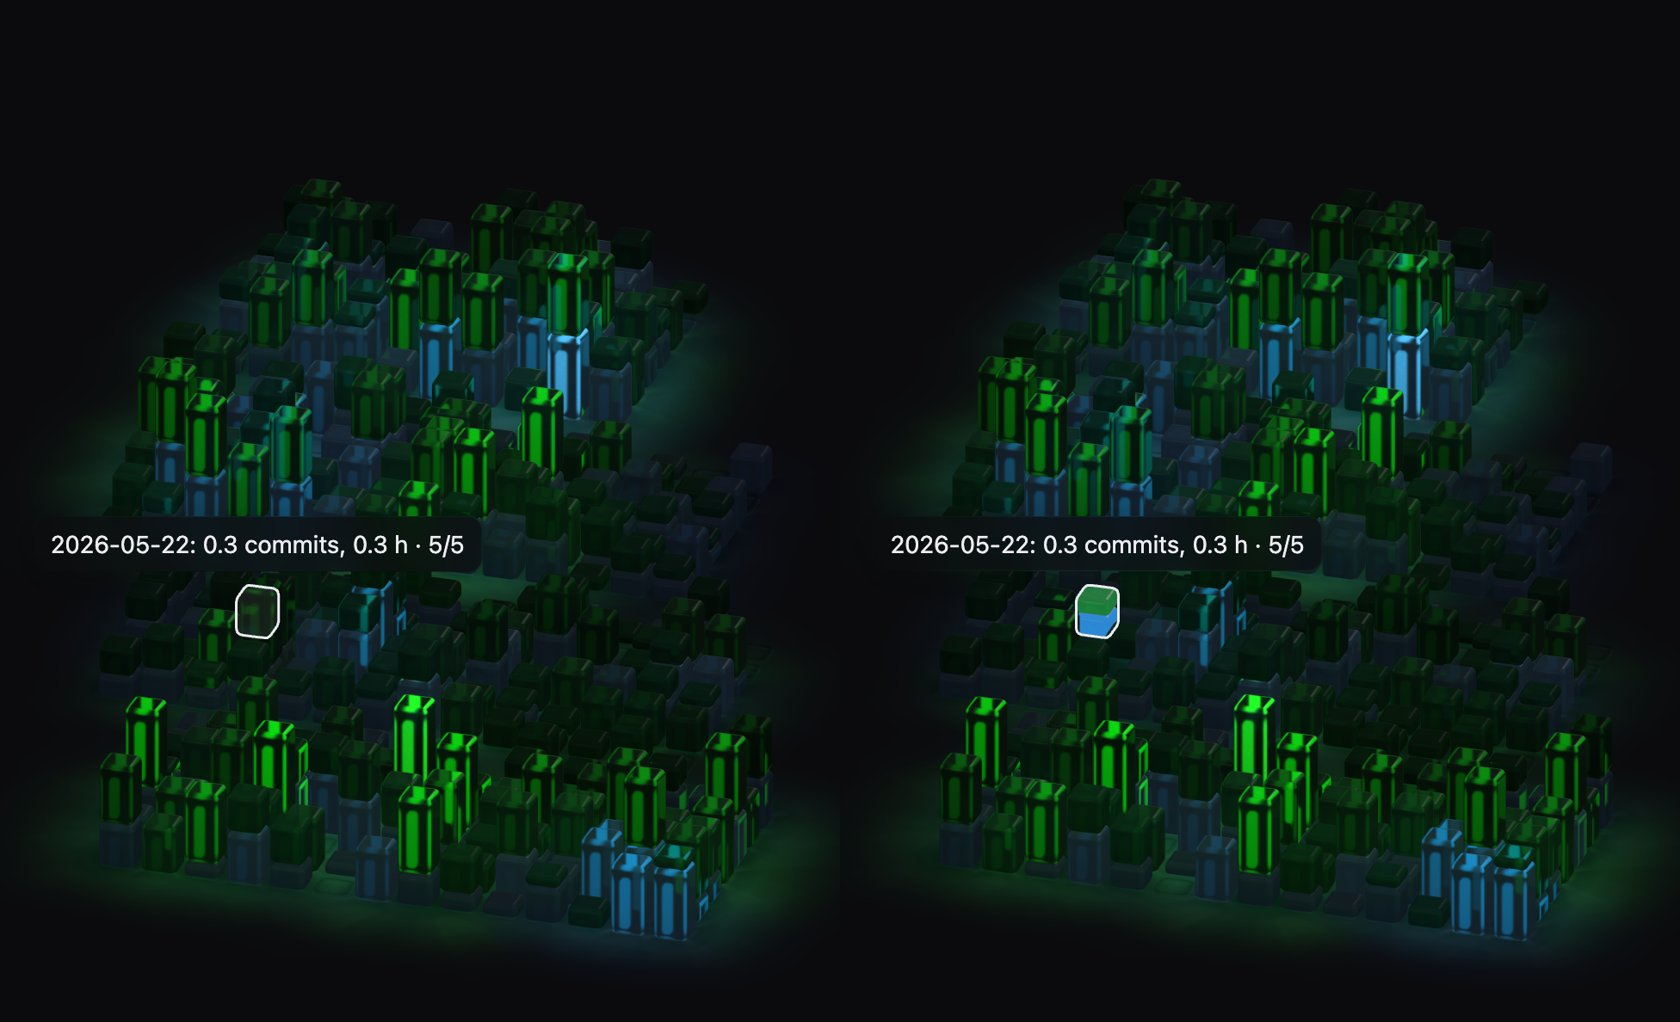
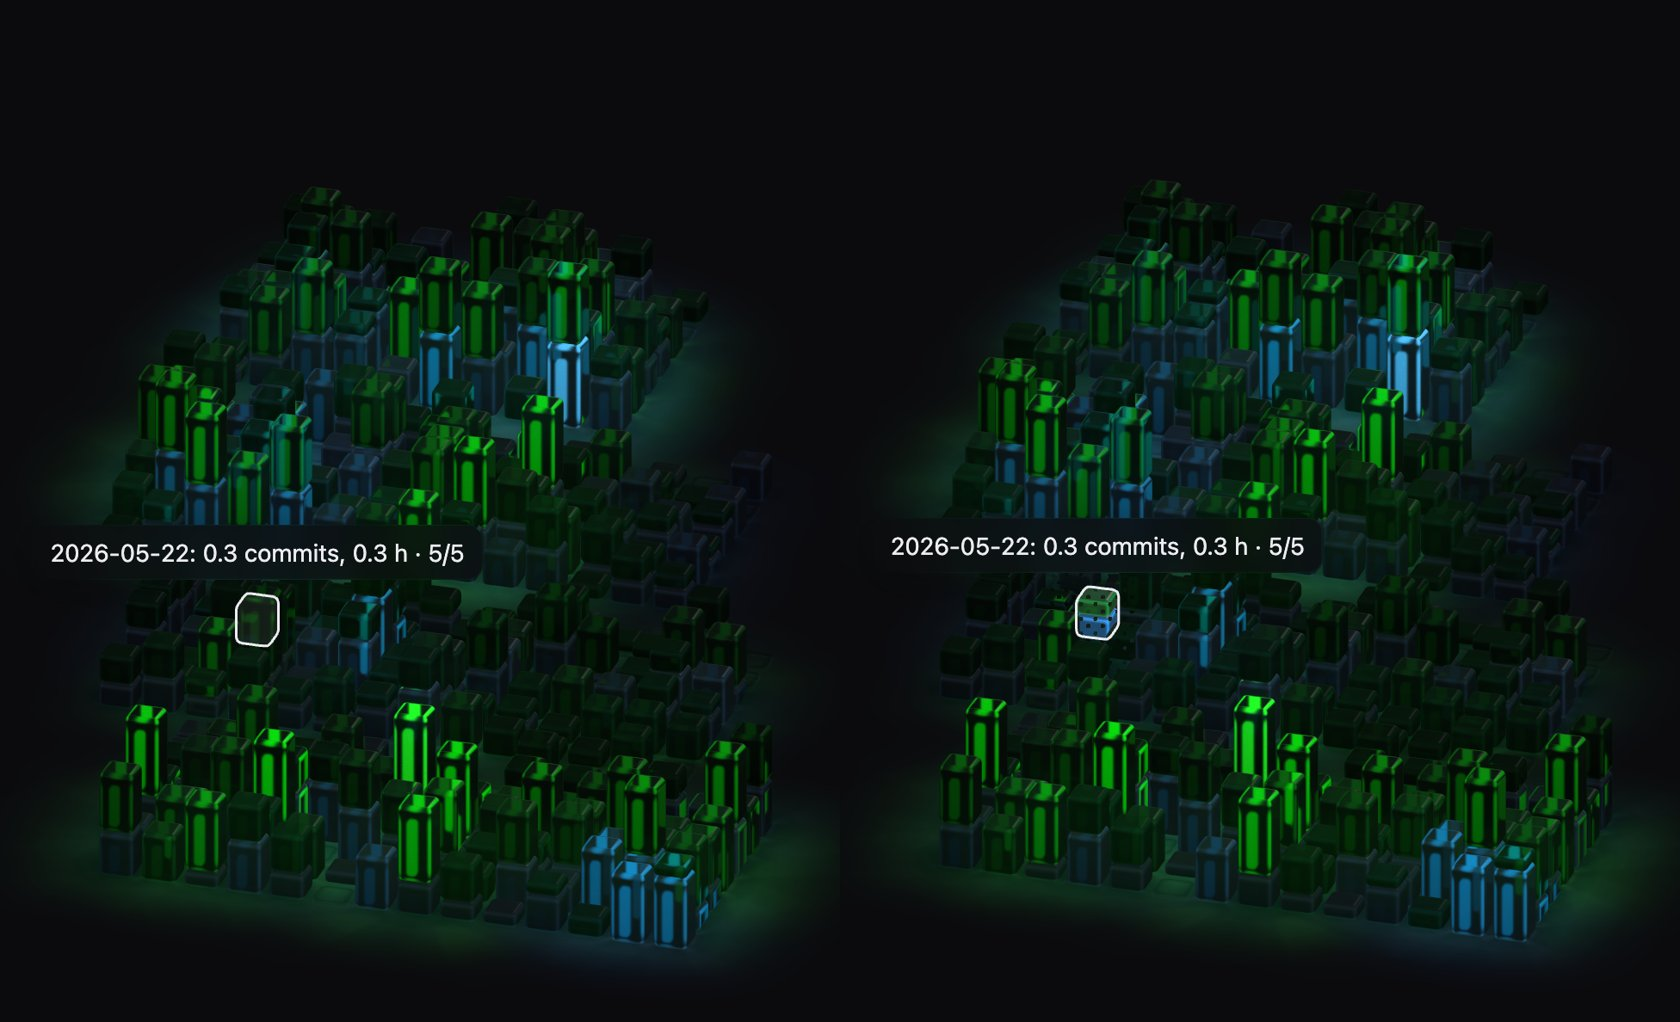
Cutaway: halftone screen instead of plain transparency; dark theme: quiet days' glass is darker and catches the neighbours' light on its edges

diff --git a/src/graph.ts b/src/graph.ts
@@ -239,6 +239,7 @@ export function mountScene(el: HTMLElement, opts: GraphOptions & { data: GraphDa
         uCutFade: { value: cutTex },
         uCutStrength: { value: cutCfg?.strength ?? 0 },
         uCutSeed: { value: 0 },
+        uCutDot: { value: 0 },
       };
       const cutPatch = (mat: import("three").Material) => {
         if (!cutCfg) return;
@@ -283,6 +284,18 @@ export function mountScene(el: HTMLElement, opts: GraphOptions & { data: GraphDa
       const LAYER_FILTER_PURITY = 0.72;
       /** (dark) how much of the light the neighbours give out the glass of a block glows with: inside a group of lamps no glass is dark, and an isolated block's is. */
       const NEIGHBOUR_GLOW = 0.22;
+      /** (dark) a dim block's glass: what is left of its own glow on its flat faces and what its rounded edges add to it (so it is dark, with its edges catching the light), and the same for the light of the blocks next to it. */
+      /** How quiet a day is (1: the quietest, 0: not at all) from its own level `t`: a smoothstep from 0.2 to 0.8. */
+      const dimStep = (t: number) => {
+        const x = Math.min(1, Math.max(0, (t - 0.2) / 0.6));
+        return x * x * (3 - 2 * x);
+      };
+      const DIM_FLAT = 0.2;
+      const DIM_EDGE = 1.6;
+      const NB_FLAT = 0.05;
+      const NB_EDGE = 3.2;
+      /** (dark) how much less of what is behind it a quiet day's glass shows (0 is the same as a lit one's). */
+      const DIM_SEE = 0.6;
       /** How much light behind a block it takes to light its glass most of the way (the share is `1 - e^-(light behind / this)`). */
       const BEHIND_SCALE = 1.6;
       /** How far the neighbours' light is tinted by the block's own colour, 0 to 1. */
@@ -976,6 +989,8 @@ void main() {
           shell.translate(x, y0 + h / 2, z);
           // dark: the glass is nearly clear (the light of its core shows through it); light: tinted by the level
           paint(shell, (dark ? new THREE.Color(0xffffff) : hue.clone().lerp(new THREE.Color(0xffffff), LIGHT_SHELL_WHITE).multiply(behindTint.get(sp) ?? new THREE.Color(1, 1, 1))).add(inc.clone().multiplyScalar(dark && sp.cust ? 0.35 : 0.08)), 0, dark);
+          // (how quiet the day is, by its OWN level, not the one the light of its neighbours lifts it to: what the glass's glow is confined to the edges for)
+          shell.setAttribute("aDim", new THREE.BufferAttribute(new Float32Array(shell.getAttribute("position").count).fill(1 - dimStep(t)), 1));
           shell.setAttribute("aCell", new THREE.BufferAttribute(new Float32Array(shell.getAttribute("position").count).fill(sp.cell), 1));
           shell.setAttribute("aBlock", new THREE.BufferAttribute(new Float32Array(shell.getAttribute("position").count).fill(blockIndex), 1));
           // (the light of the neighbours, for the glass to glow with: see `NEIGHBOUR_GLOW`; only where there are lamps BEHIND the glass as the camera sees it, and none against a dark background, or the glass would look opaque and washed out)
@@ -1130,13 +1145,13 @@ void main() {
               shader.uniforms.uFloorEm = { value: OFF_EMISSIVE / Math.max(mat.emissiveIntensity, 1e-4) };
               shader.uniforms.uFloorEnv = { value: mat.envMapIntensity > 0 ? OFF_ENV / mat.envMapIntensity : 0 };
               shader.vertexShader = shader.vertexShader
-                .replace("#include <common>", "#include <common>\nattribute float aBlock;\nattribute vec3 aInc;\nattribute vec3 aTint;\nvarying vec3 vInc;\nvarying vec3 vTint;\nuniform highp sampler2D uLevels;\nuniform float uFloorEm;\nuniform float uFloorEnv;\nvarying float vLevelEm;\nvarying float vLevelEnv;\nvarying float vOn;")
-                .replace("#include <begin_vertex>", "#include <begin_vertex>\n  vec2 lv = texelFetch(uLevels, ivec2(int(aBlock + 0.5), 0), 0).rg;\n  float own = max(lv.r, 0.3 * lv.g);\n  vOn = clamp(own, 0.0, 1.0);\n  vLevelEm = max(own, uFloorEm);\n  vLevelEnv = max(own, uFloorEnv);\n  vInc = aInc * lv.g * lv.g * lv.g;\n  vTint = aTint;");
+                .replace("#include <common>", "#include <common>\nattribute float aBlock;\nattribute vec3 aInc;\nattribute vec3 aTint;\nattribute float aDim;\nvarying float vDim;\nvarying vec3 vInc;\nvarying vec3 vTint;\nuniform highp sampler2D uLevels;\nuniform float uFloorEm;\nuniform float uFloorEnv;\nvarying float vLevelEm;\nvarying float vLevelEnv;\nvarying float vOn;\nvarying vec3 vObjN;")
+                .replace("#include <begin_vertex>", "#include <begin_vertex>\n  vObjN = normal;\n  vDim = aDim;\n  vec2 lv = texelFetch(uLevels, ivec2(int(aBlock + 0.5), 0), 0).rg;\n  float own = max(lv.r, 0.3 * lv.g);\n  vOn = clamp(own, 0.0, 1.0);\n  vLevelEm = max(own, uFloorEm);\n  vLevelEnv = max(own, uFloorEnv);\n  vInc = aInc * lv.g * lv.g * lv.g;\n  vTint = aTint;");
               shader.fragmentShader = shader.fragmentShader
-                .replace("#include <common>", "#include <common>\nvarying float vLevelEm;\nvarying float vLevelEnv;\nvarying float vOn;\nvarying vec3 vInc;\nvarying vec3 vTint;")
-                .replace("#include <emissivemap_fragment>", "#include <emissivemap_fragment>\n  // (right off, the glass glows the same cool grey whatever its source; as soon as there is a light in it, its own colour, darker the dimmer the light: a dimmed block is a tinted, darker one, not a grey one)\n  float offGrey = 1.0 - smoothstep(0.05, 0.6, vOn);\n  totalEmissiveRadiance = mix(totalEmissiveRadiance, vec3(dot(totalEmissiveRadiance, vec3(0.333))) * vec3(0.85, 0.95, 1.15), offGrey) * mix(pow(vLevelEm, 2.0), vLevelEm, offGrey);\n  vec3 nb = min(vInc * " + NEIGHBOUR_GLOW.toFixed(3) + ", vec3(0.1));\n  nb = max(vec3(0.0), mix(vec3(dot(nb, vec3(0.299, 0.587, 0.114))), nb, " + GLOW_SATURATION.toFixed(2) + "));\n  nb *= mix(vec3(1.0), vTint, smoothstep(0.05, 0.6, vOn) * mix(" + GLOW_TINT_FAINT.toFixed(3) + ", 1.0, smoothstep(0.02, 0.1, max(nb.r, max(nb.g, nb.b)))));\n  totalEmissiveRadiance += nb;")
+                .replace("#include <common>", "#include <common>\nvarying float vLevelEm;\nvarying float vLevelEnv;\nvarying float vOn;\nvarying float vDim;\nvarying vec3 vObjN;\nvarying vec3 vInc;\nvarying vec3 vTint;")
+                .replace("#include <emissivemap_fragment>", "#include <emissivemap_fragment>\n  // (right off, the glass glows the same cool grey whatever its source; as soon as there is a light in it, its own colour, darker the dimmer the light: a dimmed block is a tinted, darker one, not a grey one)\n  float offGrey = 1.0 - smoothstep(0.05, 0.6, vOn);\n  totalEmissiveRadiance = mix(totalEmissiveRadiance, vec3(dot(totalEmissiveRadiance, vec3(0.333))) * vec3(0.85, 0.95, 1.15), offGrey) * mix(pow(vLevelEm, 2.0), vLevelEm, offGrey);\n  // (a dim block is not a lit one: its glass does not glow all over, evenly, from the light of the blocks next to it, which would make it a milky, jelly-like cube; the light shows where light shows on glass, as streaks on its rounded edges, and its flat faces stay dark)\n  float edgeK = smoothstep(0.03, 0.4, 1.0 - max(abs(vObjN.x), max(abs(vObjN.y), abs(vObjN.z))));\n  float dimK = max(vDim, 1.0 - smoothstep(0.5, 0.95, vOn));\n  totalEmissiveRadiance *= mix(1.0, " + DIM_FLAT.toFixed(2) + " + " + DIM_EDGE.toFixed(2) + " * edgeK, dimK);\n  vec3 nb = min(vInc * " + NEIGHBOUR_GLOW.toFixed(3) + ", vec3(0.1));\n  nb = max(vec3(0.0), mix(vec3(dot(nb, vec3(0.299, 0.587, 0.114))), nb, " + GLOW_SATURATION.toFixed(2) + "));\n  nb *= mix(vec3(1.0), vTint, smoothstep(0.05, 0.6, vOn) * mix(" + GLOW_TINT_FAINT.toFixed(3) + ", 1.0, smoothstep(0.02, 0.1, max(nb.r, max(nb.g, nb.b)))));\n  nb *= mix(1.0, " + NB_FLAT.toFixed(2) + " + " + NB_EDGE.toFixed(2) + " * edgeK, dimK);\n  totalEmissiveRadiance += nb;")
                 // (the glass's tint is the light of its rod made visible: with the rod off the glass is clear)
-                .replace("#include <lights_physical_fragment>", "#include <lights_physical_fragment>\n#ifdef USE_TRANSMISSION\n  material.attenuationColor = mix(vec3(1.0), material.attenuationColor, smoothstep(0.12, 0.9, vOn));\n#endif")
+                .replace("#include <lights_physical_fragment>", "#include <lights_physical_fragment>\n#ifdef USE_TRANSMISSION\n  material.attenuationColor = mix(vec3(1.0), material.attenuationColor, smoothstep(0.12, 0.9, vOn));\n  // (a quiet day's glass does not show the lit ground and the lamps behind it as clearly as a lit one: it is a darker body, not a window onto the glow round it)\n  material.transmission *= 1.0 - " + DIM_SEE.toFixed(2) + " * vDim;\n#endif")
                 .replace("#include <lights_fragment_maps>", "#include <lights_fragment_maps>\n#if defined( RE_IndirectSpecular )\n  radiance *= vLevelEnv;\n#ifdef USE_CLEARCOAT\n  clearcoatRadiance *= vLevelEnv;\n#endif\n#endif\n#if defined( RE_IndirectDiffuse )\n  iblIrradiance *= vLevelEnv;\n#endif");
             };
             mat.customProgramCacheKey = () => "glass-levels";
@@ -1691,6 +1706,8 @@ void main(){
         const dt = neonAllowed() ? Math.min(100, now - cutLast) : 1e6;
         cutLast = now;
         const moving = stepFades(cutFade, cutWanted, dt);
+        // (the halftone's cell, in the pixels of the picture, which may be drawn at another ratio than the page's)
+        cutU.uCutDot.value = (cutCfg?.dot ?? 0) * (w / Math.max(1, el.clientWidth));
         cutTex.needsUpdate = true;
         // (each step is drawn from a few samples at once, from nothing: the thresholds of the fade are spread over the samples, so a lone one is a dither)
         const k = lite ? 2 : 4;

diff --git a/src/cutaway.ts b/src/cutaway.ts
@@ -4,11 +4,13 @@
  */
 
 export interface CutawayOptions {
-  /** How much of the days in the way is taken away, 0 to 1 (default 1: they are gone; less leaves a ghost of them, so that the picture keeps its depth). */
+  /** How much of the days in the way is taken away, 0 to 1 (default 0.8: what is left of them is a screen of dots, 1 is gone of them, so that the picture keeps its depth). */
   strength?: number;
+  /** The cell of the halftone the blocks in the way are screened with, in CSS pixels (default 6): they are not simply made transparent but turn into a screen of holes that grow with the fade, so that they read as seen through. `0` gives a fine noise instead. */
+  dot?: number;
 }
 
-export const CUTAWAY_DEFAULTS = { strength: 1 } as const;
+export const CUTAWAY_DEFAULTS = { strength: 0.8, dot: 6 } as const;
 /** Eased with this time constant, in ms. */
 export const CUTAWAY_TAU_MS = 90;
 /** The half-width of a day's block, and how far the rays that look for what is in the way are drawn in from the selected day's edge (a neighbour that only brushes its silhouette is not in the way). */
@@ -16,11 +18,12 @@ export const BLOCK_HALF = 0.46;
 export const SAMPLE_INSET = 0.22;
 
 /** Resolves user options: `false` is off, `undefined`/`true` the defaults. */
-export function resolveCutaway(o: CutawayOptions | boolean | undefined): { strength: number } | null {
+export function resolveCutaway(o: CutawayOptions | boolean | undefined): { strength: number; dot: number } | null {
   if (o === false) return null;
   const c = typeof o === "object" ? o : {};
   const strength = Math.min(1, Math.max(0, c.strength ?? CUTAWAY_DEFAULTS.strength));
-  return strength > 0 ? { strength } : null;
+  const dot = Math.min(32, Math.max(0, c.dot ?? CUTAWAY_DEFAULTS.dot));
+  return strength > 0 ? { strength, dot } : null;
 }
 
 export interface Box {
@@ -110,13 +113,22 @@ export const cutSeed = (frame: number): number => (frame * 0.6180339887) % 1;
 /** GLSL, vertex stage (declarations, then after `begin_vertex`): the day this vertex belongs to. */
 export const CUT_DECLS_VERTEX = "attribute float aCell;\nvarying float vCutCell;";
 export const CUT_VERTEX = "  vCutCell = aCell;";
-/** GLSL, fragment stage: the day's fade is read from a texture, one texel a day; the fragment is dropped in proportion to it, by a threshold spread evenly over the frames that are averaged, so that it converges to a smooth fade. */
-export const CUT_DECLS_FRAGMENT = "varying float vCutCell;\nuniform highp sampler2D uCutFade;\nuniform float uCutStrength;\nuniform float uCutSeed;";
+/**
+ * GLSL, fragment stage: the day's fade is read from a texture, one texel a day. The fragment is dropped where a halftone screen (a 45-degree grid of dots, `uCutDot` pixels a cell) is below the fade: the holes are dots at first, then
+ * merge into a mesh, and what is left of the block as it goes is dots of it; the camera's sub-pixel jitter, over the accumulated samples, smooths the edges of the dots. With no dot (`uCutDot` 0), a noise whose threshold is spread evenly over the samples.
+ */
+export const CUT_DECLS_FRAGMENT = "varying float vCutCell;\nuniform highp sampler2D uCutFade;\nuniform float uCutStrength;\nuniform float uCutSeed;\nuniform float uCutDot;";
 export const CUT_FRAGMENT = `
   {
     float cutF = texelFetch(uCutFade, ivec2(int(vCutCell + 0.5), 0), 0).r * uCutStrength;
     if (cutF > 0.0) {
-      float ign = fract(52.9829189 * fract(dot(gl_FragCoord.xy, vec2(0.06711056, 0.00583715))));
-      if (fract(ign + uCutSeed) < cutF) discard;
+      float th;
+      if (uCutDot > 0.5) {
+        vec2 q = vec2(gl_FragCoord.x + gl_FragCoord.y, gl_FragCoord.x - gl_FragCoord.y) * (6.2831853 / (uCutDot * 1.4142136));
+        th = 0.5 + 0.25 * (cos(q.x) + cos(q.y));
+      } else {
+        th = fract(fract(52.9829189 * fract(dot(gl_FragCoord.xy, vec2(0.06711056, 0.00583715)))) + uCutSeed);
+      }
+      if (th <= cutF) discard;
     }
   }`;

diff --git a/playground/main.ts b/playground/main.ts
@@ -44,7 +44,7 @@ const options = (): GraphOptions => ({
   grain: Number($<HTMLInputElement>("grain").value),
   overlay: $<HTMLSelectElement>("outline").value === "off" ? false : { card: false, outlineColor: $<HTMLSelectElement>("outline").value as "auto" | "cased" | "text" },
   colors: PALETTES[$<HTMLSelectElement>("palette").value],
-  cutaway: $<HTMLInputElement>("cutaway").checked ? { strength: Number($<HTMLInputElement>("cut-strength").value) } : false,
+  cutaway: $<HTMLInputElement>("cutaway").checked ? { strength: Number($<HTMLInputElement>("cut-strength").value), dot: Number($<HTMLInputElement>("cut-dot").value) } : false,
   rodColor: $<HTMLInputElement>("lights").checked ? lights : undefined,
   background: (theme) => getComputedStyle(document.body).backgroundColor || (theme === "dark" ? "#0b0b0e" : "#f6f6f4"),
   onLit: (lit) => (status.textContent = lit ? "lit" : "starting up…"),
@@ -73,7 +73,7 @@ const applyTheme = () => {
 
 mount();
 $("theme").addEventListener("change", applyTheme);
-for (const id of ["strips", "sound", "lite", "grain", "lights", "outline", "palette", "cutaway", "cut-strength"]) $(id).addEventListener("change", mount);
+for (const id of ["strips", "sound", "lite", "grain", "lights", "outline", "palette", "cutaway", "cut-dot", "cut-strength"]) $(id).addEventListener("change", mount);
 $("again").addEventListener("click", () => {
   seed++;
   graph?.update(makeData());

diff --git a/src/types.ts b/src/types.ts
@@ -126,7 +126,7 @@ export interface GraphOptions {
   overlay?: boolean | OverlayOptions;
   /**
    * The cutaway (default on): while a day is selected, the days that stand in its way (those that hide it from the camera) fade away, whole and eased, so it can be seen through the days piled up in front. `strength` is the share taken away
-   * (0 to 1, default 1: they are gone; less leaves a ghost). `false` turns it off. Costs nothing while nothing is selected.
+   * (0 to 1, default 0.8: what is left of them is a screen of dots, 1 is gone). `dot` is the cell of the halftone they are screened with, in CSS px (default 6; `0` for a fine noise). `false` turns it off. Costs nothing while nothing is selected.
    */
   cutaway?: boolean | CutawayOptions;
   /** The highest pixel ratio the picture is rendered at (default 2; a `lite` device always gets 1). */

diff --git a/playground/index.html b/playground/index.html
@@ -34,7 +34,8 @@
         <label>Colours <select id="palette"><option>original</option><option>technicolor</option><option>ice</option><option>sunset</option><option>mono</option><option>grey</option></select></label>
         <label><input type="checkbox" id="lights" /> String of lights (rodColor)</label>
         <label><input type="checkbox" id="cutaway" checked /> Cutaway (click a stack to step through it)</label>
-        <label>Strength <input type="range" id="cut-strength" min="0" max="1" step="0.02" value="1" /></label>
+        <label>Dot <input type="range" id="cut-dot" min="0" max="16" step="1" value="6" /></label>
+        <label>Strength <input type="range" id="cut-strength" min="0" max="1" step="0.02" value="0.8" /></label>
         <button id="again">New data</button>
       </div>
       <div id="graph"><div id="card"></div></div>

diff --git a/src/cutaway.test.ts b/src/cutaway.test.ts
@@ -78,7 +78,9 @@ describe("resolveCutaway", () => {
     expect(resolveCutaway(true)).toEqual(CUTAWAY_DEFAULTS);
     expect(resolveCutaway(false)).toBeNull();
     expect(resolveCutaway({ strength: 0 })).toBeNull();
-    expect(resolveCutaway({ strength: 3 })).toEqual({ strength: 1 });
+    expect(resolveCutaway({ strength: 3 })).toEqual({ strength: 1, dot: CUTAWAY_DEFAULTS.dot });
+    expect(resolveCutaway({ dot: 0 })).toEqual({ strength: CUTAWAY_DEFAULTS.strength, dot: 0 });
+    expect(resolveCutaway({ dot: 99 })!.dot).toBe(32);
   });
 });
 

diff --git a/README.md b/README.md
@@ -117,7 +117,7 @@ interface GraphLayer {
 | `overlay` | off | `true` or `{ outline?, card?, locale? }`: the selected day's outline and a day card, drawn over the graph. See [Overlay](#overlay). |
 | `label` | "Activity graph, one column a day. …" | The accessible name. |
 | `templatesUrl` | embedded | Where to fetch `caustic-templates.png` from, instead of the embedded data URI. |
-| `cutaway` | `true` | `false`, or `{ strength? }`. While a day is selected, the days that stand in its way (that hide it from the camera) fade away, whole, in both themes, so a day behind taller ones can be seen. `strength` is the share taken away (`0`–`1`, default `1`: they are gone). See [Cutaway](#cutaway). |
+| `cutaway` | `true` | `false`, or `{ strength?, dot? }`. While a day is selected, the days that stand in its way (that hide it from the camera) are screened away, whole, in both themes, so a day behind taller ones can be seen. `strength` is the share taken away (`0`–`1`, default `0.8`: a screen of dots is left; `1` is gone), `dot` the halftone cell in CSS px (default `6`; `0` for a fine noise). See [Cutaway](#cutaway). |
 | `maxPixelRatio` | `2` | The highest pixel ratio rendered (`lite` always renders at 1). |
 | `maxPixels` | `8_000_000` | The most pixels rendered; a larger container is rendered at a lower ratio. |
 | `debug` | | `{ metrics?, wireframe?, neonHold? }`: development helpers (`data-*` timings on the container, the glass as a cage, the picture held half on). |
@@ -177,7 +177,7 @@ The [demo](https://neon.bsodium.fr/) has a few presets (Technicolor, Ice, Sunset
   <img alt="Dark theme, the same day: cutaway off (left) and on (right)" src="docs/cutaway-dark.jpg" width="49%" />
 </p>
 
-Days stand behind one another from the camera, so the selected one is often hidden. With `cutaway` (on by default) the days that are in its way are faded out whole. "In the way" is exact: a few points of the selected day (the centre, top and bottom of its blocks, and their corners drawn in a little) are looked at toward the camera, and every other day with a block that one of those lines goes through is faded. The days beside it, behind it, or too low to hide it stay. Each day eases in and out by itself (about 90 ms), so when the selection moves, the days that were in the way come back while the new ones go, with no pop. The ground, shadows and caustics are left as they are. The fade is done per fragment in the blocks' own shaders (a dither whose threshold is spread over the accumulated samples, so it converges to a smooth fade), and only while the selection is changing: nothing is redrawn at rest. In the dark theme it goes with the existing glow (the selected day brighter, the rest dimmer): the glow says *which* day, the cutaway lets it be seen. With reduced motion it switches without easing. `cutaway: false` turns it off; the pure `inTheWay` and `resolveCutaway` are exported.
+Days stand behind one another from the camera, so the selected one is often hidden. With `cutaway` (on by default) the days that are in its way are screened away whole: not just made transparent, but turned into a halftone (a 45-degree grid of holes that grow with the fade), so they read as seen through rather than vanished. "In the way" is exact: a few points of the selected day (the centre, top and bottom of its blocks, and their corners drawn in a little) are looked at toward the camera, and every other day with a block that one of those lines goes through is faded. The days beside it, behind it, or too low to hide it stay. Each day eases in and out by itself (about 90 ms), so when the selection moves, the days that were in the way come back while the new ones go, with no pop. The ground, shadows and caustics are left as they are. The fade is done per fragment in the blocks' own shaders (the halftone's edges are smoothed by the camera's sub-pixel jitter over the accumulated samples), and only while the selection is changing: nothing is redrawn at rest. In the dark theme it goes with the existing glow (the selected day brighter, the rest dimmer): the glow says *which* day, the cutaway lets it be seen. With reduced motion it switches without easing. `cutaway: false` turns it off; the pure `inTheWay` and `resolveCutaway` are exported.
 
 ## Sound
 
